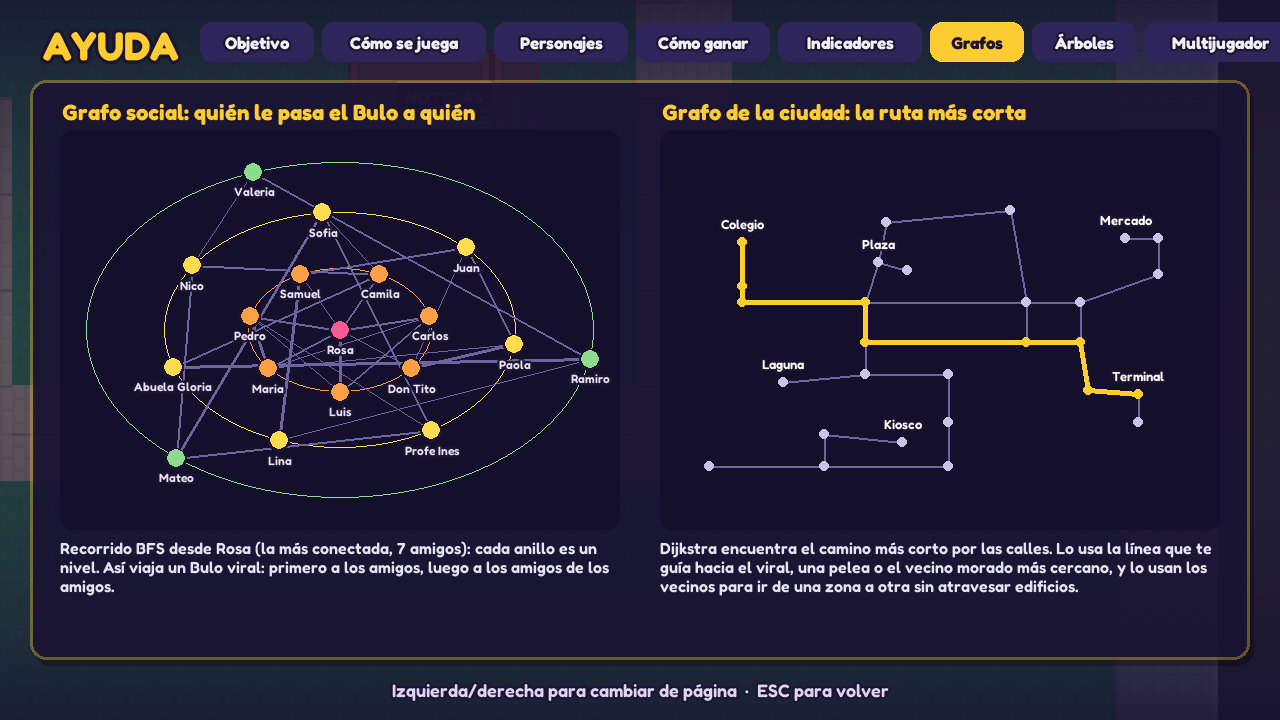
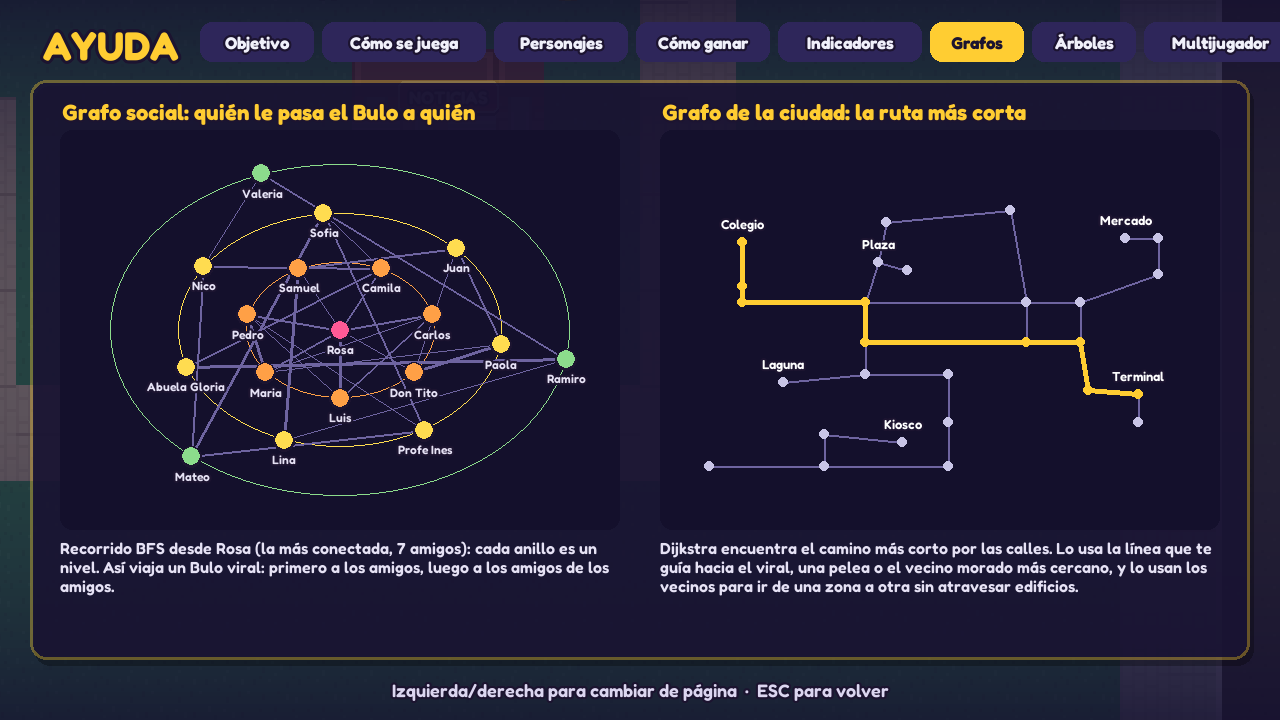
Cazabulos: la red del barrio (TAB) en anillos del BFS, igual que en la ayuda, sin nombres encimados

Changed region(s): [[0.0938, 0.2139, 0.4688, 0.6722]]

diff --git a/cazabulos/pantallas/ayuda.py b/cazabulos/pantallas/ayuda.py
@@ -1,6 +1,4 @@
 """AYUDA: objetivo, controles, personajes, cómo ganar, indicadores y las estructuras de datos."""
-import math
-
 import pygame
 
 from .. import personajes, sprites
@@ -13,7 +11,7 @@ from ..personajes import ORDEN, PERSONAJES
 from ..recursos import escalar
 from ..ui import panel, parrafo, tecla, texto
 from .base import Escena, FondoCiudad, es_volver, instrucciones, pie
-from .final import dibujar_arbol
+from .final import anillos_bfs, dibujar_arbol
 from .seleccion import tarjeta_personaje
 
 PAGINAS = ["Objetivo", "Cómo se juega", "Personajes", "Cómo ganar", "Indicadores", "Grafos", "Árboles", "Multijugador"]
@@ -165,13 +163,12 @@ class Ayuda(Escena):
         texto(pant, "Grafo social: quién le pasa el Bulo a quién", (c.x + 30, c.y + 16), 22, (255, 205, 50))
         area = pygame.Rect(c.x + 30, c.y + 50, 560, 400)
         pygame.draw.rect(pant, (20, 16, 44), area, border_radius=12)
-        pos, nivel = self._anillos_bfs(area, "Rosa")
+        pos, nivel, radios = anillos_bfs(self.social, "Rosa", area)
         paso = int(self.t * 1.2) % 5
         colores = [(255, 90, 150), (255, 160, 70), (255, 220, 80), (140, 220, 140), (120, 180, 255)]
-        cx, cy = area.center
-        for n, (rx, ry) in enumerate(self.RADIOS[1:max(nivel.values()) + 1], start=1):
-            caja = pygame.Rect(0, 0, rx * 2, ry * 2)
-            caja.center = (cx, cy)
+        for n, (rx, ry) in enumerate(radios[1:], start=1):
+            caja = pygame.Rect(0, 0, int(rx * 2), int(ry * 2))
+            caja.center = area.center
             pygame.draw.ellipse(pant, colores[n] if n <= paso else (50, 44, 84), caja, 1)
         for a, b, p in self.social.aristas():
             pygame.draw.line(pant, (110, 100, 160), pos[a], pos[b], p)
@@ -202,29 +199,6 @@ class Ayuda(Escena):
         parrafo(pant, "Dijkstra encuentra el camino más corto por las calles. Lo usa la línea que te guía hacia el viral, una "
                       "pelea o el vecino morado más cercano, y lo usan los vecinos para ir de una zona a otra sin atravesar edificios.",
                 (area2.x, area2.bottom + 8), 16, area2.w, (230, 226, 245))
-
-    RADIOS = [(0, 0), (92, 62), (176, 118), (254, 168), (270, 185)]
-
-    def _anillos_bfs(self, area, origen):
-        """Dibujo del grafo social en anillos: el origen en el centro y cada nivel del BFS en un anillo.
-        Cada vecino se pone cerca de quien lo descubrió, así se cruzan pocas líneas y los nombres no se tapan."""
-        orden = self.social.bfs(origen)
-        nivel = {v: n for v, n, _ in orden}
-        padre = {v: p for v, _, p in orden}
-        ultimo = max(nivel.values()) + 1
-        for v in self.social.vertices():
-            nivel.setdefault(v, ultimo)            # los que el BFS no alcanza (otra comunidad), afuera
-        cx, cy = area.center
-        pos, ang = {origen: (cx, cy)}, {origen: 0.0}
-        for n in range(1, max(nivel.values()) + 1):
-            del_nivel = sorted((v for v in nivel if nivel[v] == n),
-                               key=lambda v: (ang.get(padre.get(v), 0.0) % math.tau, v))
-            rx, ry = self.RADIOS[min(n, len(self.RADIOS) - 1)]
-            for i, v in enumerate(del_nivel):
-                a = -math.pi / 2 + (i + 0.5) * math.tau / len(del_nivel) + 0.35 * (n - 1)
-                ang[v] = a
-                pos[v] = (cx + math.cos(a) * rx, cy + math.sin(a) * ry)
-        return pos, nivel
 
     def _p6(self, pant, c):
         texto(pant, "Árbol de mutaciones de los Bulos", (c.x + 30, c.y + 16), 22, (255, 205, 50))

diff --git a/cazabulos/pantallas/final.py b/cazabulos/pantallas/final.py
@@ -106,15 +106,54 @@ def mensaje(res):
     return "Los Bulos ganaron esta vez. Apaga la antena pronto y lánzales a los vecinos morados."
 
 
+def anillos_bfs(grafo, origen, rect):
+    """Posiciones para dibujar el grafo social en anillos: el origen en el centro y cada nivel del BFS en un
+    anillo (elipse) más afuera. Cada vecino queda cerca de quien lo descubrió, así se cruzan pocas líneas y
+    los nombres no se tapan. Los que el BFS no alcanza (otra comunidad) van en el anillo de afuera.
+    Devuelve (posiciones, nivel de cada vértice, radios de cada anillo)."""
+    orden = grafo.bfs(origen)
+    nivel = {v: n for v, n, _ in orden}
+    padre = {v: p for v, _, p in orden}
+    ultimo = (max(nivel.values()) if nivel else 0) + 1
+    for v in grafo.vertices():
+        nivel.setdefault(v, ultimo)
+    maxn = max(1, max(nivel.values()))
+    cx, cy = rect.center
+    # el primer anillo un poco más grande que lo proporcional: ahí suele haber más vecinos juntos
+    fraccion = [(n + 0.4) / (maxn + 0.4) for n in range(maxn + 1)]
+    radios = [(0, 0)] + [((rect.w / 2 - 50) * fraccion[n], (rect.h / 2 - 34) * fraccion[n]) for n in range(1, maxn + 1)]
+    pos, ang = {origen: (cx, cy)}, {origen: 0.0}
+    for n in range(1, maxn + 1):
+        del_nivel = sorted((v for v in nivel if nivel[v] == n),
+                           key=lambda v: (ang.get(padre.get(v), 0.0) % math.tau, v))
+        rx, ry = radios[n]
+        for i, v in enumerate(del_nivel):
+            a = -math.pi / 2 + (i + 0.5) * math.tau / len(del_nivel) + 0.35 * (n - 1)
+            ang[v] = a
+            pos[v] = (cx + math.cos(a) * rx, cy + math.sin(a) * ry)
+    return pos, nivel, radios
+
+
 def dibujar_red(pant, rect, res, t=0.0):
-    """El grafo social al final del turno: quién quedó con Bulo, quién protegido y qué hilos cambiaron."""
+    """El grafo social al final del turno: quién quedó con Bulo, quién protegido y qué hilos cambiaron.
+    Se dibuja en anillos del BFS desde el vecino más conectado (igual que en la ayuda)."""
     from ..ciudad import VECINOS
+    from ..estructuras.grafo import Grafo
     red = res.get("red")
     if not red:
         return
     pygame.draw.rect(pant, (20, 16, 44), rect, border_radius=14)
-    pos = {n: (rect.x + 30 + p[0] / 64 * (rect.w - 60), rect.y + 30 + (p[1] - 6) / 40 * (rect.h - 60))
-           for n, _, _, _, p in VECINOS}
+    g = Grafo()
+    for n, *_ in VECINOS:
+        g.agregar_vertice(n)
+    for a, b, p in red["aristas"]:
+        g.agregar_arista(a, b, p)
+    origen = red.get("mas_conectado") or VECINOS[0][0]
+    pos, _, radios = anillos_bfs(g, origen, rect.inflate(-40, -70).move(0, -14))
+    for rx, ry in radios[1:]:
+        caja = pygame.Rect(0, 0, int(rx * 2), int(ry * 2))
+        caja.center = rect.inflate(-40, -70).move(0, -14).center
+        pygame.draw.ellipse(pant, (44, 38, 80), caja, 1)
     rotos = {tuple(sorted(x)) for x in res.get("rotos", [])}
     nuevos = {tuple(sorted(x)) for x in res.get("nuevos", [])}
     for a, b, p in red["aristas"]:

diff --git a/docs/ENTREGA_FINAL.md b/docs/ENTREGA_FINAL.md
@@ -52,7 +52,7 @@ El aprendizaje sale de las mecánicas, no de preguntas:
   - **Objetivo de los Bulos:** buscan al vecino de mayor **grado**.
   - **Velocidad:** el tiempo para reenviar depende del grado (los más conectados reenvían antes).
   - **Comunidades:** **DFS / componentes**.
-- **Se ve en el juego:** los hilos por donde viaja un Bulo son morados; la verdad se ve crecer en dorado nivel por nivel; las amistades nuevas brillan en verde. Al final de cada turno, la tecla TAB muestra la red del barrio: quién quedó con Bulo, quién protegido, las amistades rotas (rojo) y las nuevas (verde), y cuántas comunidades quedaron (DFS). En la ayuda, el grafo se dibuja en anillos por niveles del BFS.
+- **Se ve en el juego:** los hilos por donde viaja un Bulo son morados; la verdad se ve crecer en dorado nivel por nivel; las amistades nuevas brillan en verde. Al final de cada turno, la tecla TAB muestra la red del barrio en anillos del BFS desde el vecino más conectado: quién quedó con Bulo, quién protegido, las amistades rotas (rojo) y las nuevas (verde), y cuántas comunidades quedaron (DFS). La ayuda dibuja el grafo igual, con cada anillo de un color.
 - **Cambia durante la partida:**
   - Si una pelea no se calma, la amistad se rompe (**eliminar arista**) y por ahí ya no pasa nada, ni Bulos ni verdad.
   - Si se calma, la confianza sube (el peso aumenta).
